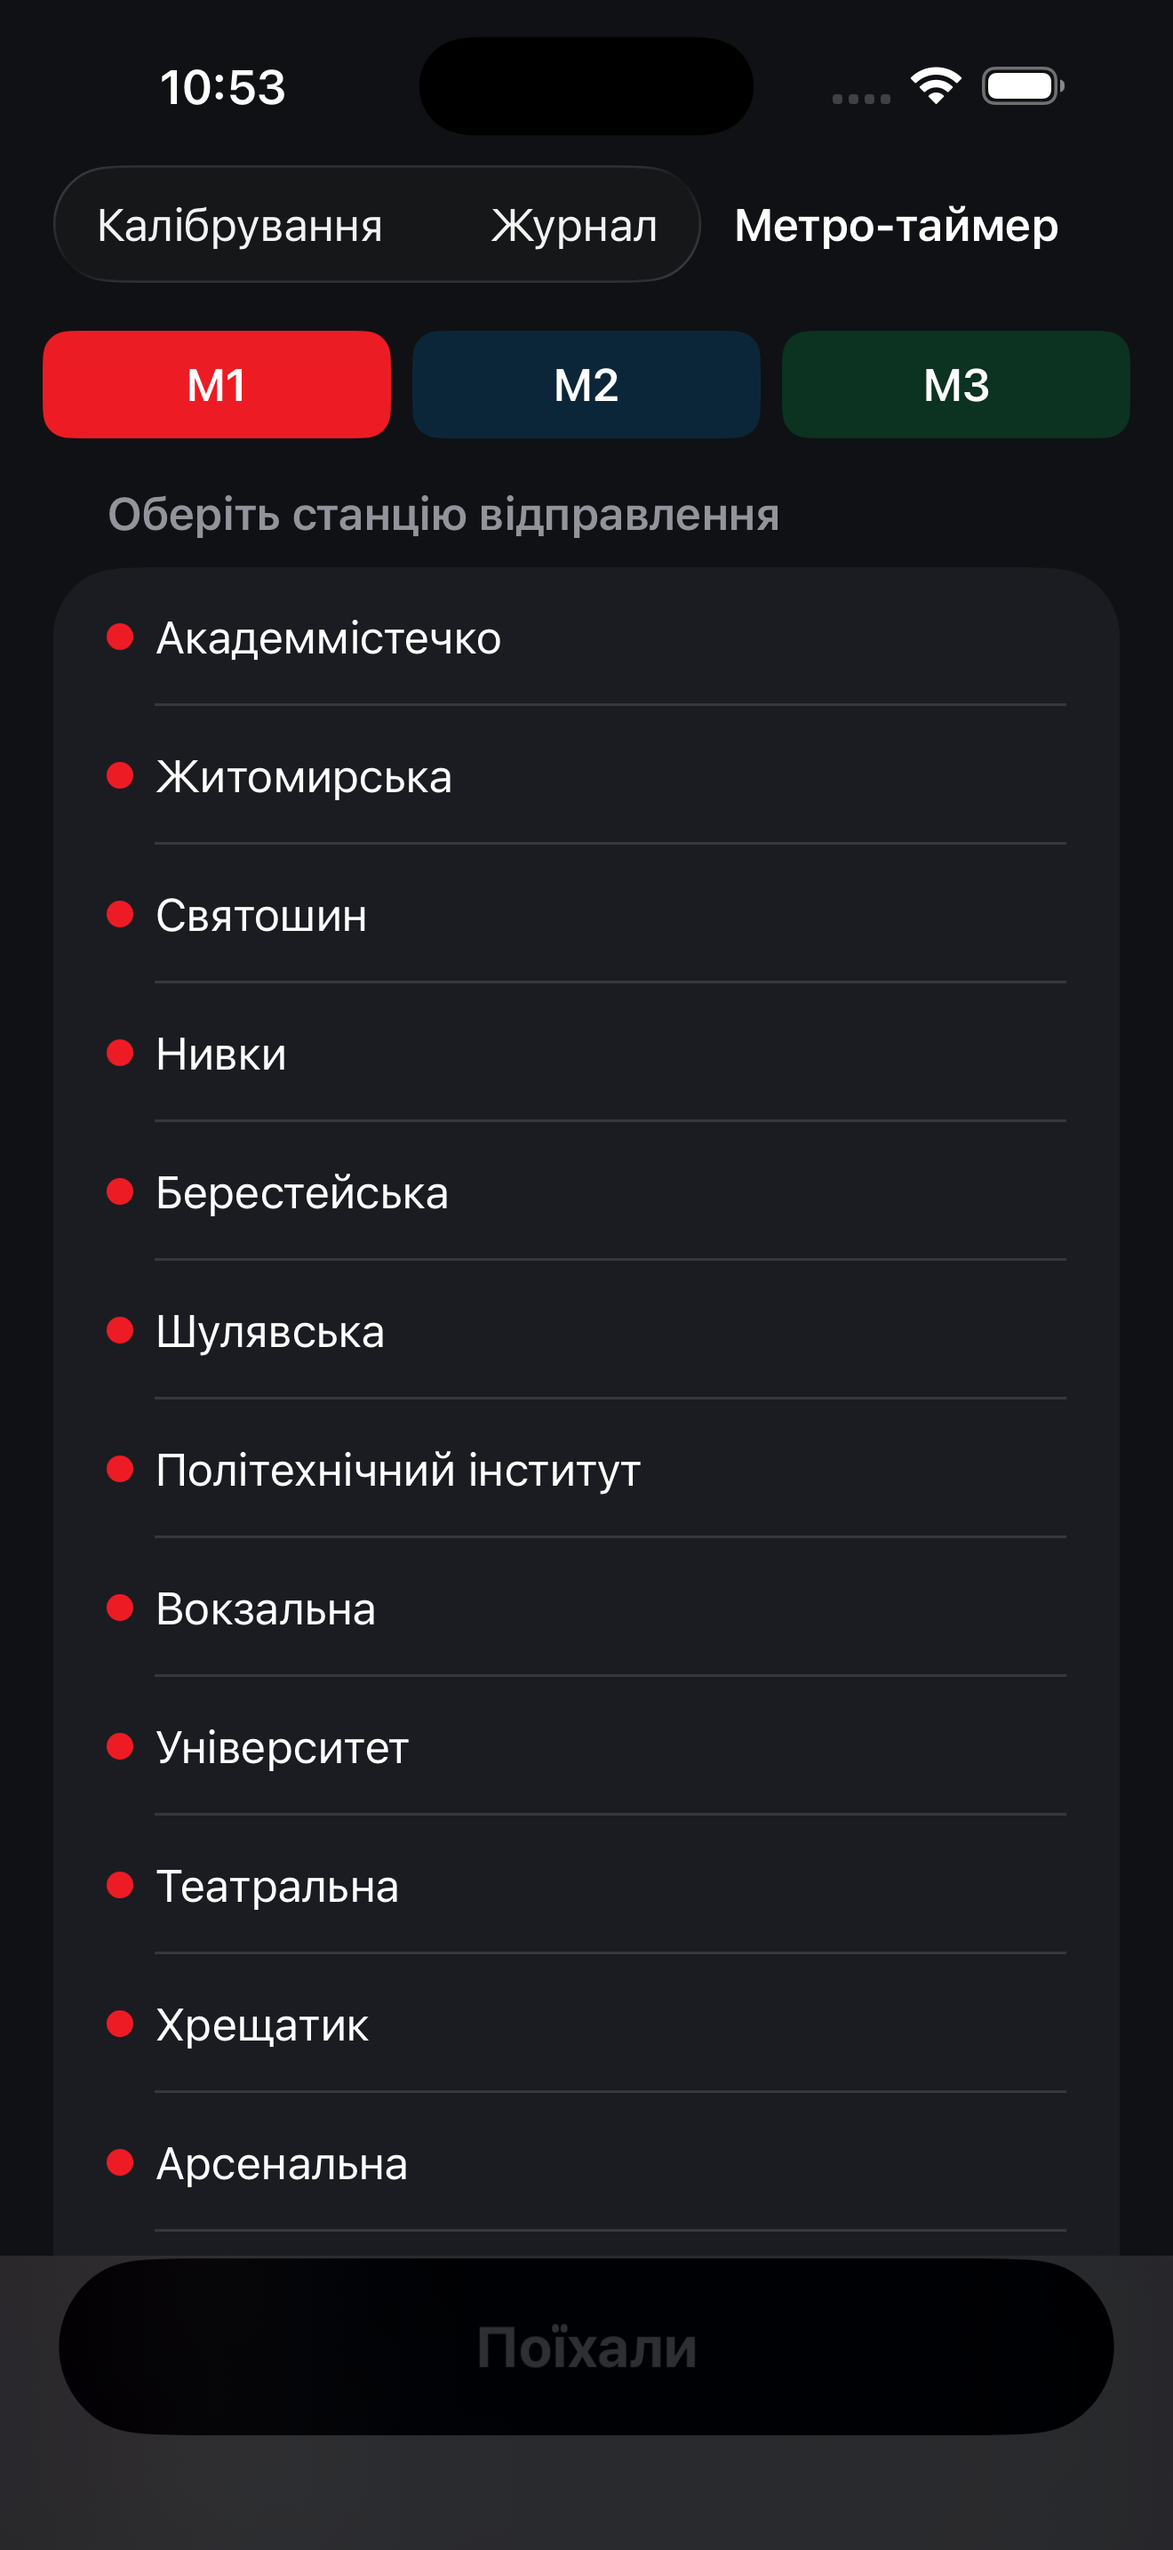
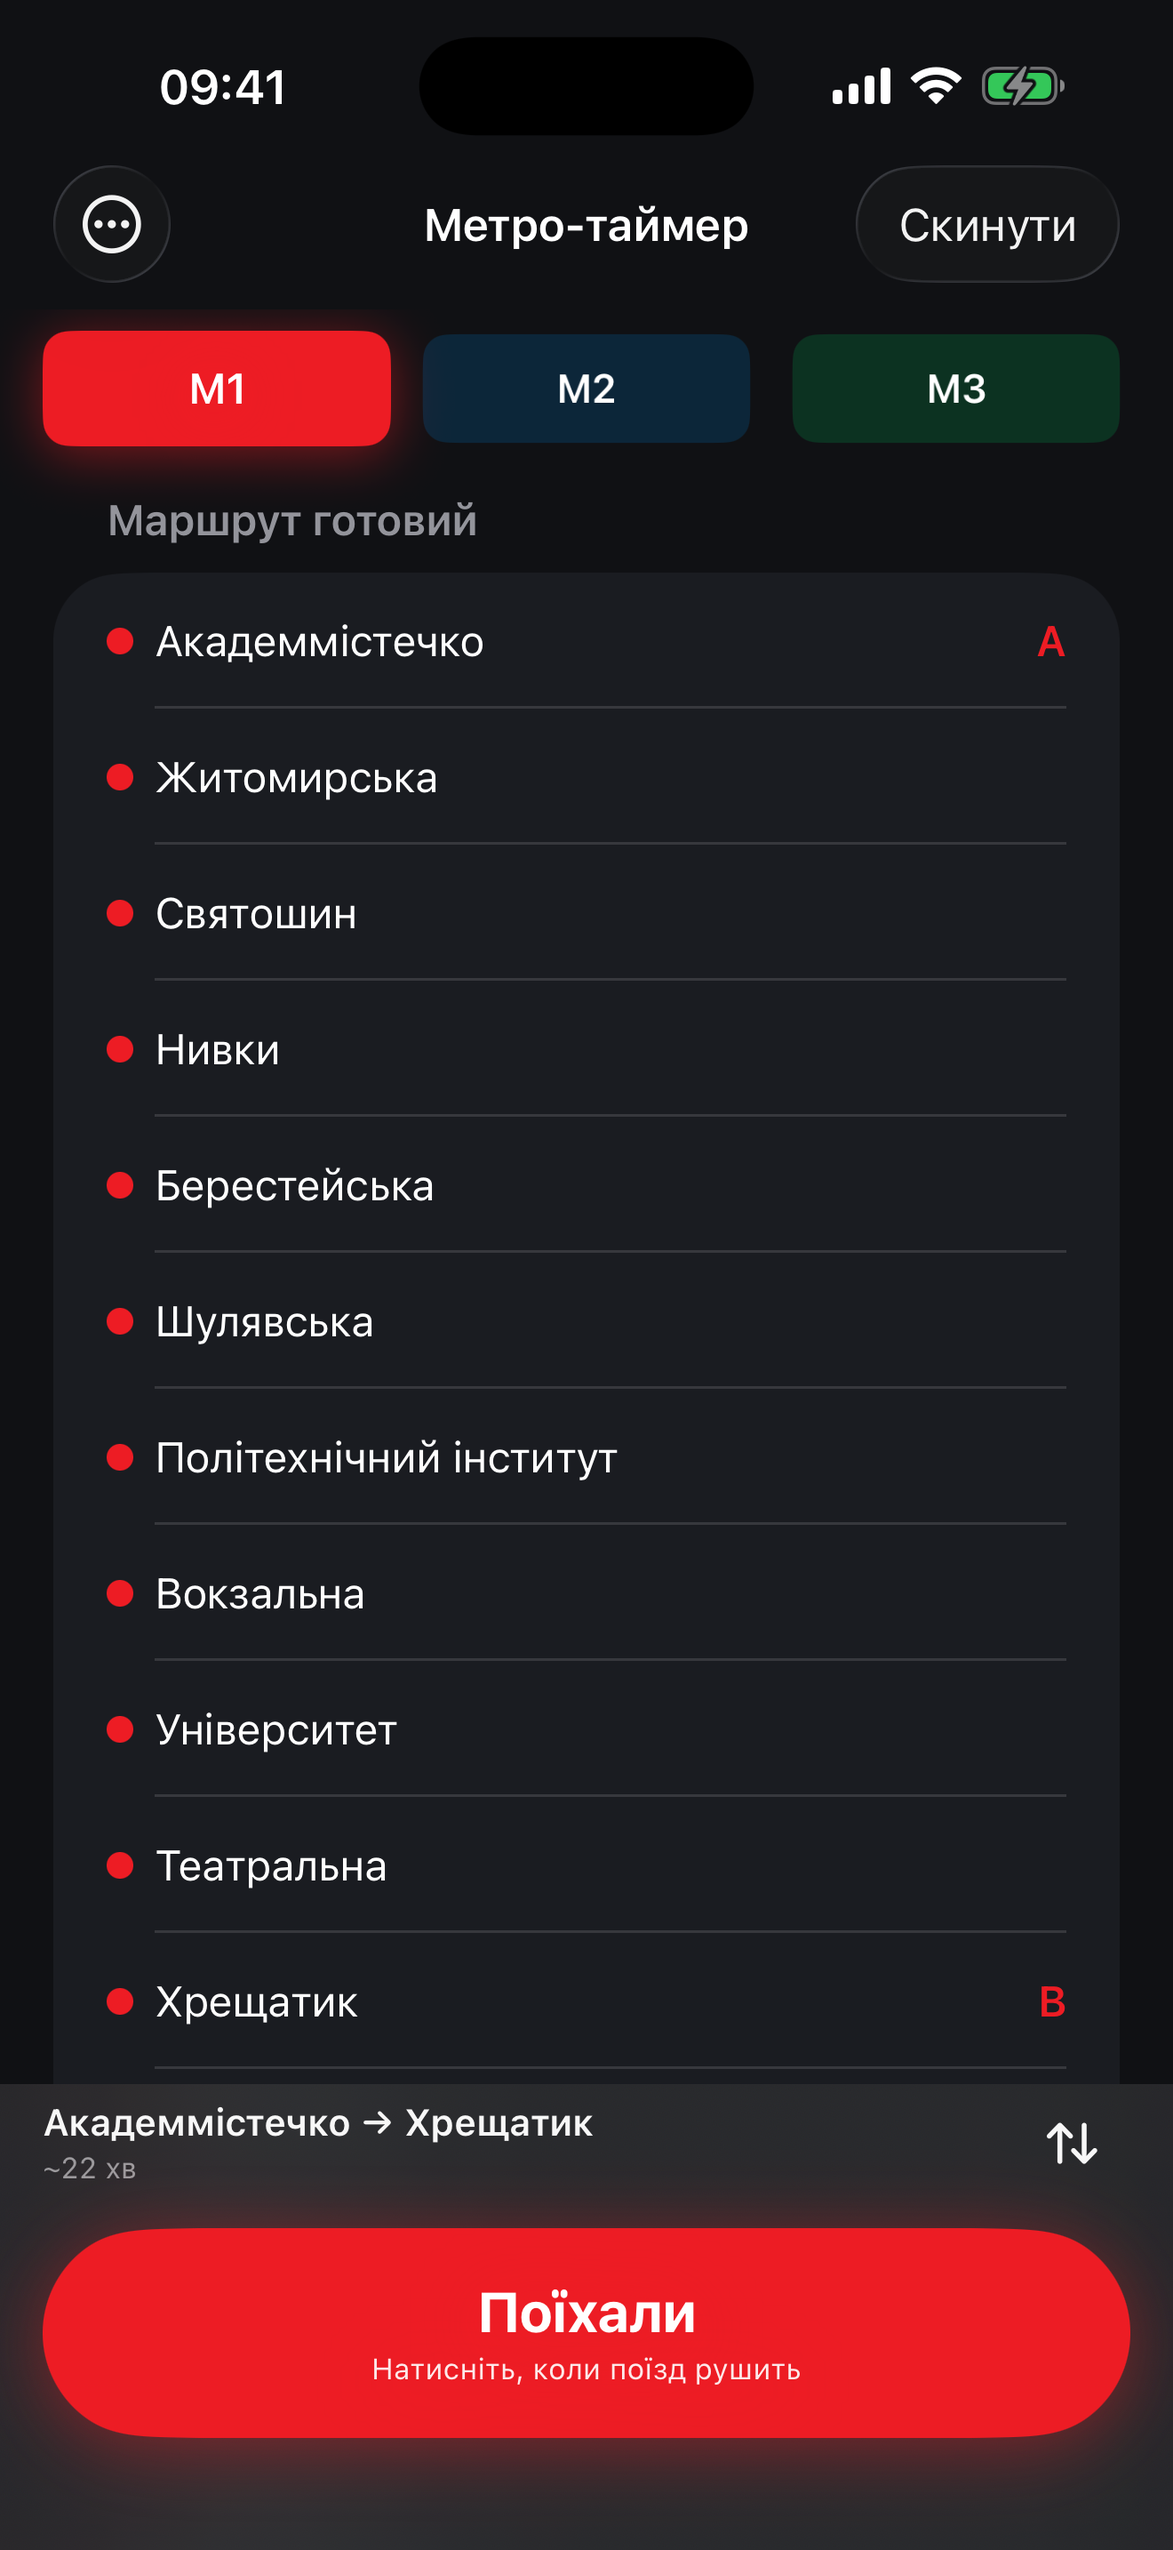
Витрина App Store переснята з поточного інтерфейсу
Після втрати теки лишалися чотири старі кадри, зняті ще до превʼю маршруту,
лічильника «Ще N зупинок», попереджень про години роботи і кнопки «Поїзд рушив»;
banner_real.png не було зовсім. Знято заново, усе справжнє:

- превʼю маршруту без попередження (зсув часу через -MTPreviewOffset, бо о 23:26
  застосунок чесно каже, що останній поїзд уже пішов)
- поїздка з трьома зупинками, реальний Dynamic Island, реальне системне
  сповіщення «Наступна — Хрещатик. Готуйтеся до виходу.»
- екран пересадки з кнопкою «Поїзд рушив»

Заодно прибрано два перебільшення, які лишалися саме у витрині: слайд обіцяв
«Нуль мережі. Повністю офлайн», бейдж — «Офлайн». Тепер «Нуль серверів»,
«Відлік працює без інтернету — навіть у тунелі» і «Працює в тунелі».

Чек-лист App Store Connect переписано: розділено на готове, те, що потребує
платного акаунта, і те, що закривається лише поїздками. Додано готові відповіді
на анкети (Data Not Collected з обґрунтуванням, 4+, статус трейдера DSA).

diff --git a/MetroTimer/Scripts/make_store_frames.py b/MetroTimer/Scripts/make_store_frames.py
@@ -90,7 +90,7 @@ def header(canvas, h1, h2, accent, sub, badges=False):
     if badges:
         x = 90
         fb = font(40)
-        for label, dot in [("Офлайн", RED), ("Без реклами", BLUE), ("Безкоштовно", GREEN)]:
+        for label, dot in [("Працює в тунелі", RED), ("Без реклами", BLUE), ("Безкоштовно", GREEN)]:
             tw = d.textlength(label, font=fb)
             bw = int(tw) + 96
             d.rounded_rectangle([x, 668, x + bw, 748], radius=40,
@@ -210,7 +210,7 @@ def brand_slide(out="store_5_offline.png"):
     y = 1180
     for word, rest, color in [("Нуль", " реклами.", RED),
                               ("Нуль", " трекінгу.", BLUE),
-                              ("Нуль", " мережі.", GREEN)]:
+                              ("Нуль", " серверів.", GREEN)]:
         ww = d.textlength(word, font=fz)
         rw = d.textlength(rest, font=fz)
         x = (W - ww - rw) / 2
@@ -218,7 +218,7 @@ def brand_slide(out="store_5_offline.png"):
         d.text((x + ww, y), rest, font=fz, fill=(255, 255, 255))
         y += 168
 
-    sub = "Повністю офлайн. Працює навіть у тунелі."
+    sub = "Відлік працює без інтернету — навіть у тунелі."
     fs = fit_font(d, sub, 52, max_w=1160, bold=False)
     d.text(((W - d.textlength(sub, font=fs)) / 2, y + 60), sub, font=fs, fill=TEXT_DIM)
     sub2 = "Безкоштовно · Без реєстрації · Українською"

diff --git a/MetroTimer/AppStore/READINESS.md b/MetroTimer/AppStore/READINESS.md
@@ -191,10 +191,34 @@ alertDate учитывает пересадку, устаревший alert не
 Connect — Privacy Policy URL и Support URL). Исходник страницы — `AppStore/site/`,
 там же инструкция, как перенести её на GitHub Pages или свой домен.
 
+**Спринт E — безопасность, восстановление, витрина (17.08.2026): готово.**
+Тревоги вернулись в «Про застосунок» (после потери папки секции не было —
+включить их было нельзя) и теперь честны: сказано, что источник неофициальный
+и полагаться на него в вопросах безопасности нельзя, при недоступности фида
+показывается «не вдалося перевірити» вместо молчания, про IP-адрес сказано
+прямо. Заметки ревьюеру больше не утверждают «no network calls». Локальные
+файлы (журнал, калибровка — это трек с координатами) пишутся с
+FileProtection .completeUnlessOpen и исключены из резервных копий iCloud/iTunes.
+Описание в сторе не обещает «жодного інтернету». Витрина переснята с текущего
+интерфейса: 5 слайдов, реальные кадры, реальное сповіщення, реальный остров.
+
+**Спринт F — пересадки по полевым данным (17.08.2026): готово.**
+Первая полевая поездка (Героїв Дніпра → Гідропарк) показала: модель давала на
+переход Майдан → Хрещатик 7 минут, факт — 2. Обе части оценки были неверны.
+240 с пешком были вписаны на глаз — заменены замером 120 с; два других узла
+помечены как незамеренные. Ожидание поезда бралось как половина интервала —
+это неверно дважды: пассажир не приходит на платформу случайно (слышит поезд и
+ускоряется — в этой поездке ожидание было нулём), и у ошибки разная цена:
+недооценили — предупреждение придёт рано и это поправимо, переоценили — придёт
+после нужной станции. Теперь закладывается четверть интервала, осознанно в
+раннюю сторону; честное среднее осталось отдельным методом для ответа на вопрос
+«сколько займёт поездка». Кнопка «Поїзд рушив» вынесена в Live Activity — её
+можно нажать с экрана блокировки, не открывая приложение.
+
 **Осталось до подачи:** платный аккаунт Apple Developer Program — и полевая
-проверка (10 поездок по трём линиям в режиме калибровки). Расчёт переведён на
-официальный график, но ни одной поездки с новой сборкой не проехано: «точность
-±30 с» пока предположение, а не измеренный факт.
+проверка (5–10 поездок по трём линиям). Первая поездка уже нашла ошибку в
+5 минут, которую не поймали ни 28 тестов, ни симулятор: это сейчас самый
+результативный способ находить дефекты. Плюс замер двух оставшихся переходов.
 
 ## 6.1. Данные: официальный график (коммит 61c1df1)
 

diff --git a/MetroTimer/AppStore/metadata_uk.md b/MetroTimer/AppStore/metadata_uk.md
@@ -91,10 +91,36 @@ identify the user, and nothing is stored off device. Local files (trip journal,
 calibration) are encrypted and excluded from iCloud/iTunes backups.
 
 ## Перед відправленням (чек-лист)
-- [ ] Платний акаунт Apple Developer Program ($99/рік) — Personal Team не публікує в App Store
+
+Готове:
+- [x] Політика конфіденційності за публічним URL — https://dayvan777.github.io/METRO/
+      (той самий URL іде і в Support URL; сторінка двомовна)
+- [x] Версія/білд: MARKETING_VERSION 1.0, CURRENT_PROJECT_VERSION 1
+- [x] Скриншоти 6.9" (1320×2868) — 5 слайдів у `screenshots/framed/`, зняті
+      17.08.2026 з поточного інтерфейсу (реальні кадри, реальне сповіщення,
+      реальний Dynamic Island)
+- [x] `ITSAppUsesNonExemptEncryption = false` — анкета експортного контролю
+- [x] PrivacyInfo.xcprivacy в обох таргетах
+- [x] Нотатки рев'юверу описують мережевий виклик тривог чесно
+- [x] Локальні файли зашифровані й виключені з резервних копій
+
+Потребує платного акаунта:
+- [ ] Платний акаунт Apple Developer Program ($99/рік) — Personal Team не публікує
 - [ ] Bundle ID зареєструвати в App Store Connect (ua.vlad.MetroTimer)
-- [ ] Повернути time-sensitive entitlement (на платному акаунті підтримується)
-- [ ] Розмістити політику конфіденційності за публічним URL
-- [ ] Версію/білд: MARKETING_VERSION 1.0, CURRENT_PROJECT_VERSION 1
-- [ ] Скриншоти 6.9" (1320×2868) — завантажити 5 слайдів із screenshots/framed/
-- [ ] Archive → Distribute в Xcode (схема MetroTimer, Any iOS Device)
+- [ ] Повернути time-sensitive entitlement
+- [ ] Увімкнути звіти про збої в Xcode Organizer (без SDK і без збору даних)
+- [ ] Archive → Distribute у Xcode (схема MetroTimer, Any iOS Device)
+
+Відповіді на анкети App Store Connect:
+- **App Privacy: Data Not Collected.** Застосунок нічого не надсилає, що
+  ідентифікує користувача, і нічого не зберігає поза пристроєм. IP-адресу
+  бачить сервер фіду тривог так само, як будь-який сайт; ми її не отримуємо
+  і не зберігаємо — під визначення збору Apple це не підпадає.
+- **Віковий рейтинг:** 4+.
+- **Статус трейдера DSA:** потрібен для ЄС. Для фізособи це окрема морока;
+  Україна не ЄС, тож можна не заявлятися і виключити ЄС із регіонів продажу.
+
+Залишається полевою перевіркою (не закривається кодом):
+- [ ] 5–10 поїздок трьома лініями: медіана |план − факт| на кінцевій ≤ 30 с
+- [ ] Заміряти два перевірені переходи: Театральна ↔ Золоті ворота і
+      Площа Українських Героїв ↔ Палац спорту (зараз там оцінка, не замір)
